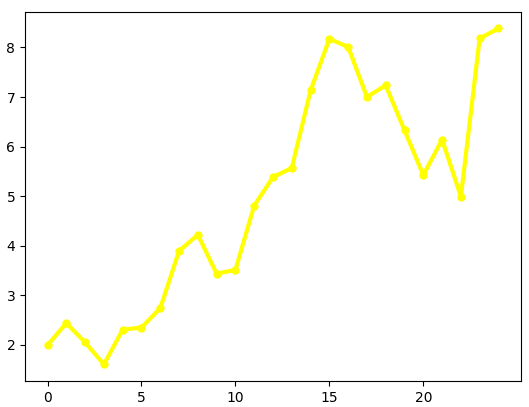
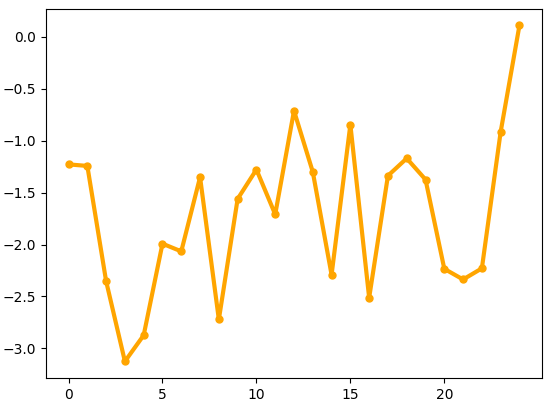
20/04

Changed region(s): [[0.0, 0.0, 0.9981, 1.0], [0.7561, 0.297, 0.7864, 0.3861]]

diff --git a/docs/9_Graficacion.md b/docs/9_Graficacion.md
@@ -1,7 +1,7 @@
 Para hacer gráficas en Python existen una gran cantidad de librerías disponibles, como _Numpy_, vista anteriormente para el tratamiento de datos. Aunque hay un amplio abanico de opciones, sin duda la más utilizada por todo el ámbito científico es ***matplotlib***. 
 
 ## **¿Qué es matplotlib?**
-[Matplotlib](https://matplotlib.org/) es una biblioteca completa para crear visualizaciones estáticas, animadas e interactivas en Python. Aunque con el tiempo ha sido superada visualmente por otras librerías más atractivas e interactivas (_seaborn_ o _ggplot_) ***MJ: pon hipervínculo en cada una de esas***, el conocimiento y empleo de esta librería sigue siendo el más extendido.
+[Matplotlib](https://matplotlib.org/) es una biblioteca completa para crear visualizaciones estáticas, animadas e interactivas en Python. Aunque con el tiempo ha sido superada visualmente por otras librerías más atractivas e interactivas ([seaborn](https://seaborn.pydata.org/) o [ggplot2](https://ggplot2.tidyverse.org/)), el conocimiento y empleo de esta librería sigue siendo el más extendido.
 
 El paquete _matplotlib_ es relativamente grande y complejo, y entre otros contiene dos módulos principales: ***pyplot*** y ***pylab***.
 
@@ -9,7 +9,7 @@ El paquete _matplotlib_ es relativamente grande y complejo, y entre otros contie
 * ^^pylab^^. Esta interfaz es conveniente para cálculos y graficación interactiva, ya que minimiza la escritura. Utiliza funcionalidades combinadas de _pyplot_ y _NumPy_.
 
 ### ***Instalación***
-En primer lugar debe instalar el paquete _matplotlib_. Para ello, como se explicó en el apartado _PyCharm_ ***MJ: añade link a ese apartado***, vaya a la ventana de _Python Packages_ e instálelo.
+En primer lugar debe instalar el paquete _matplotlib_. Para ello, como se explicó en el apartado [PyCharm](3_Pycharm.md), vaya a la ventana de _Python Packages_ e instálelo.
 
 <figure markdown>
 
@@ -208,7 +208,7 @@ Estas funciones nos permiten utilizar atributos adicionales similares a los util
 ``` py linenums="1"
 x=np.random.randn(25).cumsum()
 fig, ax = plt.subplots()
-ax.plot(x, linewidth=3, color="yellow", marker="o", markersize =5)
+ax.plot(x, linewidth=3, color="orange", marker="o", markersize =5)
 plt.xticks(range(0,25,5))
 #Se ha limitado el eje X de 0 hasta 25, con saltos de 5 unidades.
 plt.show()
@@ -216,8 +216,6 @@ plt.show()
 <figure markdown>
   ![matplot](Grafica12.png){ width="400" height="400" }
 </figure>
-
-***MJ: el amarillo no parece un color muy acertado, se confunde con el fondo***
 
 !!! info "Marcas de los ejes"
 
@@ -294,10 +292,10 @@ plt.show()
 
     Si desea un diagrama de barras horizontales en lugar de verticales, uticile la **función barh** de forma similar a la *función bar*.
 
-* ***Histograma***. Para crear un histograma utilice la **función hist**. Dentro de un histograma, hay diferentes parámetros interesantes a modificar: ***MJ: en la lista siguiente usa el nombre del atributo como deba escribirse (ej. minúscula), incluso usa otro estilo para que se diferencia del texto normal (ej. cursiva); usa dos puntos después del nombre del atributo***
-    * Barras/Bins. Podemos modificar el número de barras de nuestro histograma.
-    * Range. Controla los valores mínimos y máximos en el histograma. 
-    * Orientation. Puede tomar los valores _horizontal_ o _vertical_, y determina la orientación del histograma.
+* ***Histograma***. Para crear un histograma utilice la **función hist**. Dentro de un histograma, hay diferentes parámetros interesantes a modificar: 
+    * _bins_: modificar el número de barras de nuestro histograma.
+    * _range_: controla los valores mínimos y máximos en el histograma. 
+    * _orientation_: puede tomar los valores _horizontal_ o _vertical_, y determina la orientación del histograma.
 
 ``` py linenums="1"
 x=np.random.randn(1000).cumsum()
